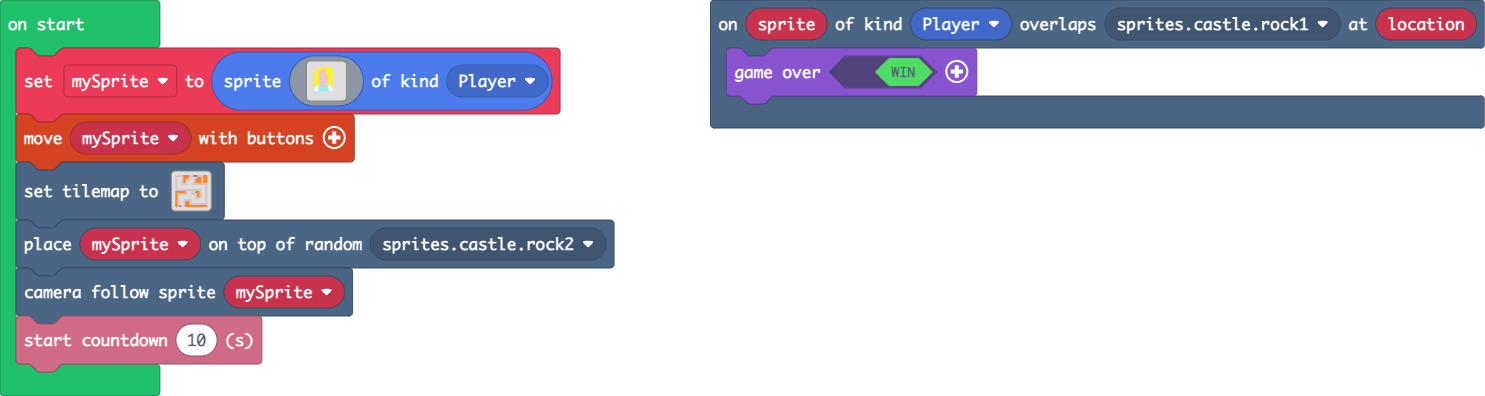
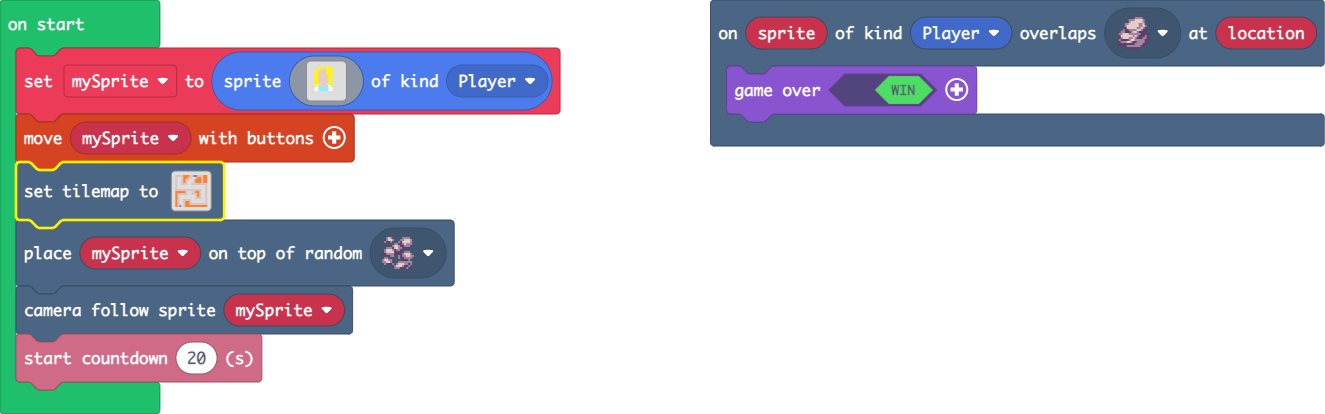
Update pxt.json, main.blocks, main.ts, tilemap.g.jres, tilemap.g.ts

Changed region(s): [[0.0, 0.0, 0.4332, 1.0], [0.4642, 0.0, 1.0, 0.3636]]

diff --git a/tilemap.g.ts b/tilemap.g.ts
@@ -28,22 +28,22 @@ namespace myTiles {
 `, [], -Infinity);
             case "level2":
             case "level2":return tiles.createTilemap(hex`1000100001010101020202010105050101010202010000040202010100000102020102020100000402010100000102020201020201000001020100000001020202010202010000010101000001010101010101010100000000000000000000000000000101000000000000000000000000000001010101010101010101010101010000010202020202010000010402020400000102010101010100000101010201000001020100000000000000000102010000010201000000000000000001010100000102010000010401010000000000000001020100000102020100000000000000010201000001020201010101010101010102010300010202020202020202020202`, img`
-. . . . . . . . . . . . . . . . 
-. . . . . . . . . . . . . . . . 
-. . . . . . . . . . . . . . . . 
-. . . . . . . . . . . . . . . . 
-. . . . . . . . . . . . . . . . 
-. . . . . . . . . . . . . . . . 
-. . . . . . . . . . . . . . . . 
-. . . . . . . . . . . . . . . . 
-. . . . . . . . . . . . . . . . 
-. . . . . . . . . . . . . . . . 
-. . . . . . . . . . . . . . . . 
-. . . . . . . . . . . . . . . . 
-. . . . . . . . . . . . . . . . 
-. . . . . . . . . . . . . . . . 
-. . . . . . . . . . . . . . . . 
-. . . . . . . . . . . . . . . . 
+2 2 2 2 . . . 2 2 . . 2 2 2 . . 
+2 . . 2 . . 2 2 . . 2 . . 2 . . 
+2 . . 2 . 2 2 . . 2 . . . 2 . . 
+2 . . 2 . 2 . . . 2 . . . 2 . . 
+2 . . 2 2 2 . . 2 2 2 2 2 2 2 2 
+2 . . . . . . . . . . . . . . 2 
+2 . . . . . . . . . . . . . . 2 
+2 2 2 2 2 2 2 2 2 2 2 2 2 . . 2 
+. . . . . 2 . . 2 2 . . 2 . . 2 
+. 2 2 2 2 2 . . 2 2 2 . 2 . . 2 
+. 2 . . . . . . . . 2 . 2 . . 2 
+. 2 . . . . . . . . 2 2 2 . . 2 
+. 2 . . 2 2 2 2 . . . . . . . 2 
+. 2 . . 2 . . 2 . . . . . . . 2 
+. 2 . . 2 . . 2 2 2 2 2 2 2 2 2 
+. 2 . . 2 . . . . . . . . . . . 
 `, [myTiles.transparency16,sprites.dungeon.floorLight4,sprites.dungeon.hazardLava1,sprites.castle.rock2,sprites.dungeon.floorLight0,sprites.castle.rock1], TileScale.Sixteen);
         }
         return null;

diff --git a/main.ts b/main.ts
@@ -23,4 +23,4 @@ controller.moveSprite(mySprite)
 tiles.setTilemap(tilemap`level2`)
 tiles.placeOnRandomTile(mySprite, sprites.castle.rock2)
 scene.cameraFollowSprite(mySprite)
-info.startCountdown(10)
+info.startCountdown(20)
